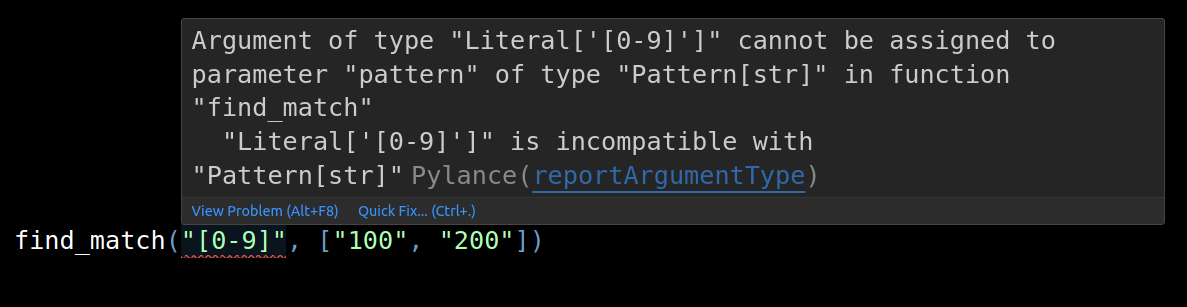
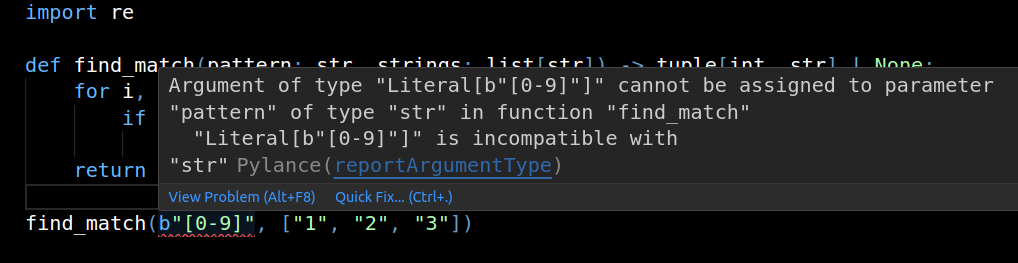
update stuff

diff --git a/docs/start-here/index.md b/docs/start-here/index.md
@@ -12,21 +12,21 @@ to suggest what kinds of values they're intended to deal with. For example:
 # without type hints
 def find_match(pattern, strings):
     for i, string in enumerate(strings):
-        if pattern.match(string) is not None:
+        if re.match(pattern, string) is not None:
             return i, string
     return None
 
 # with type hints
-def find_match(pattern: re.Pattern[str], strings: list[str]) -> tuple[int, str] | None:
+def find_match(pattern: str, strings: list[str]) -> tuple[int, str] | None:
     for i, string in enumerate(strings):
-        if pattern.match(string) is not None:
+        if re.match(pattern, string) is not None:
             return i, string
     return None
 ```
 
 This reads as:
 
-- the `pattern` argument should be a `re.Pattern` for strings (as opposed to bytes)
+- the `pattern` argument should be a string
 - the `strings` argument should be a list, where each element is a string
 - the function returns either an `(integer, string)` tuple or `None`
 
@@ -50,8 +50,8 @@ _without running the code_:
     <figcaption>Running `Pylance` in VSCode</figcaption>
 </figure>
 
-This can seem trivial: this function clearly works with patterns, why would you call it
-with a string? Or a socket?! And this should be caught with the most basic unit test.
+This can seem trivial: this function clearly works with strings, why would you call it
+with `bytes`? Or a socket?! And this should be caught with the most basic unit test.
 
 - Without the type hints, you'd have to examine the implementation of this function to
   know what argument types it expects. In a real codebase, you might have to dig through
@@ -61,10 +61,8 @@ with a string? Or a socket?! And this should be caught with the most basic unit 
     might forget that `find_match` returns `None` when a match isn't found and write code like this:
 
     ```py
-    _PHONE_PATTERN = re.compile("^[-+0-9()]{1,15}$")
-
     def find_phone(fields: list[str]) -> str:
-        _i, phone = find_match(_PHONE_PATTERN,  fields)
+        _i, phone = find_match("^[-+0-9()]{1,15}$",  fields)
         return phone
     ```
     A type checker will remind you that `find_match` can return `None`, which you won't be able to
@@ -124,7 +122,8 @@ Type hints allow you to write and read code more effectively in your editor.
 def add_squares(x: int, y: int) -> int:
     return x**2 + y**2
 
-add_squares("42", "hmm")
+print(add_squares(10, 20))
+print(add_squares("42", "hmm"))
 ```
 
 You should see a warning to the effect of "`x` is supposed to be an `int`, but you provided a string"
